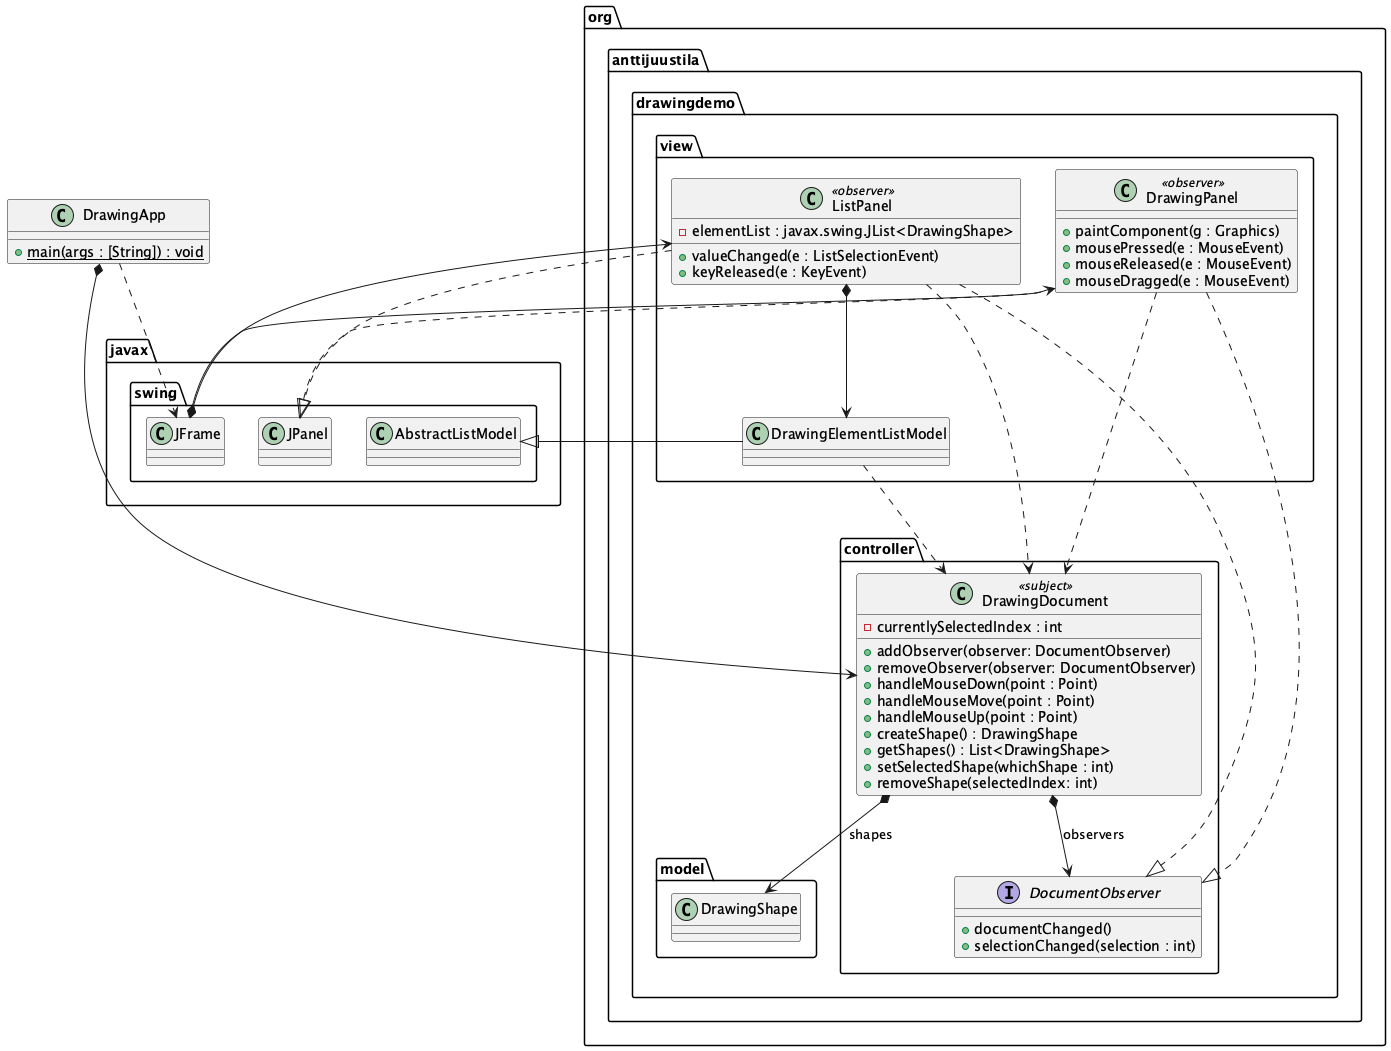
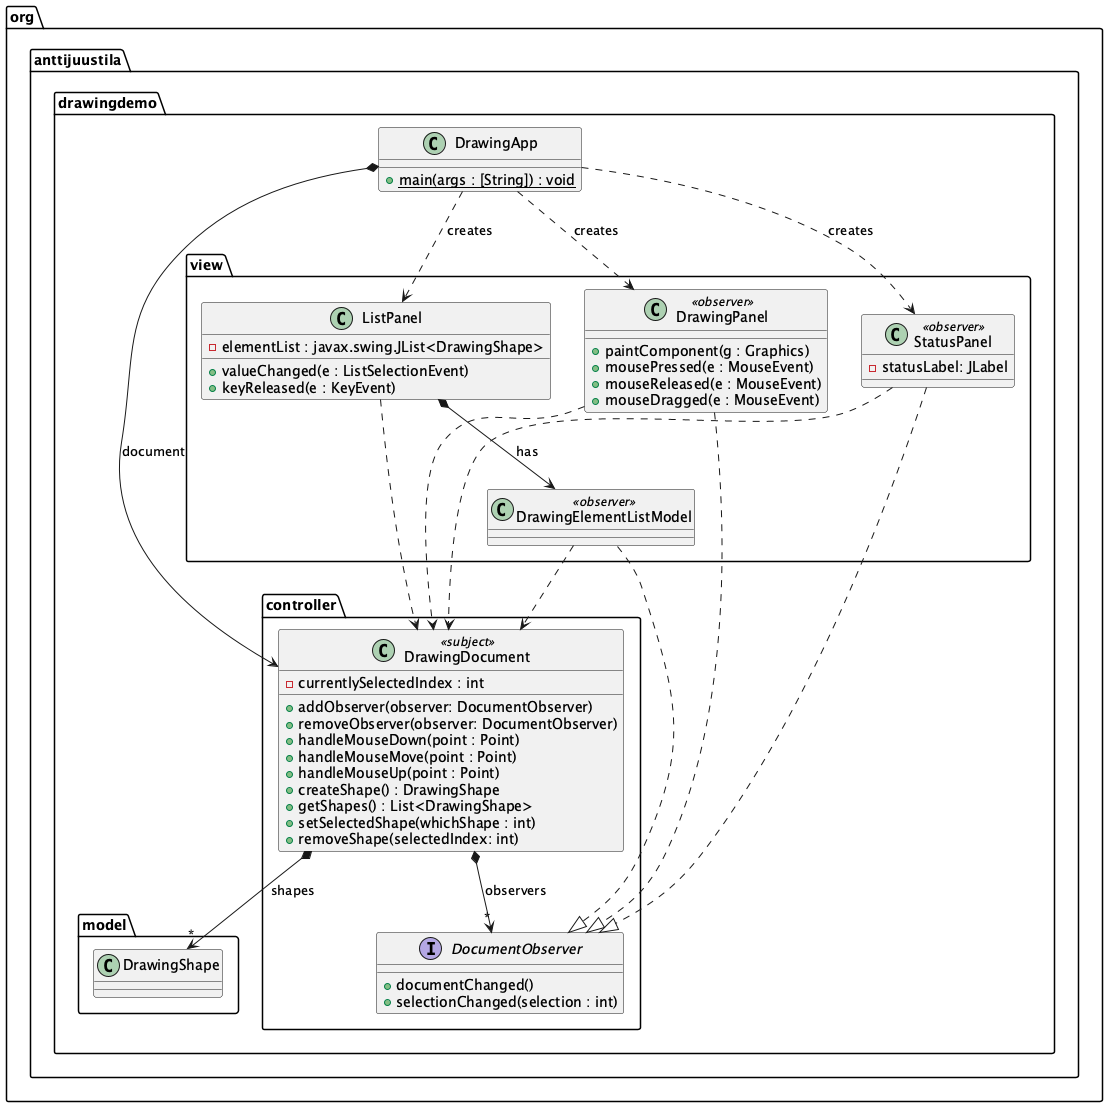
Updates related to recent changes: - ListPanel need not implement DocumentObserver, did that - Updated class diagram and docs related to above

Changed region(s): [[0.0, 0.0, 1.0, 1.0], [0.6751, 0.7916, 0.8899, 0.9134], [0.0614, 0.8221, 0.2455, 0.9134]]

diff --git a/src/main/java/org/anttijuustila/drawingdemo/view/ListPanel.java b/src/main/java/org/anttijuustila/drawingdemo/view/ListPanel.java
@@ -15,11 +15,10 @@ import javax.swing.event.ListDataListener;
 import javax.swing.event.ListSelectionEvent;
 import javax.swing.event.ListSelectionListener;
 
-import org.anttijuustila.drawingdemo.controller.DocumentObserver;
 import org.anttijuustila.drawingdemo.controller.DrawingDocument;
 import org.anttijuustila.drawingdemo.model.DrawingShape;
 
-public class ListPanel extends JPanel implements DocumentObserver, ListSelectionListener, ListDataListener, KeyListener {
+public class ListPanel extends JPanel implements ListSelectionListener, ListDataListener, KeyListener {
 
 	private JList<DrawingShape> elementList;
 	private DrawingDocument document;
@@ -38,24 +37,8 @@ public class ListPanel extends JPanel implements DocumentObserver, ListSelection
 	}
 
 	@Override
-	public void documentChanged() {
-		elementList.repaint();
-	}
-
-	private boolean selectionOriginatedFromHere = false;
-
-	@Override
-	public void selectionChanged(int whichSelected) {
-		if (!selectionOriginatedFromHere) {
-			elementList.setSelectedIndex(whichSelected);
-		}
-		selectionOriginatedFromHere = false;
-	}
-
-	@Override
 	public void valueChanged(ListSelectionEvent e) {
 		if (!e.getValueIsAdjusting()) {
-			selectionOriginatedFromHere = true;
 			document.setSelectedShape(elementList.getSelectedIndex());
 			requestFocusInWindow();
 		}
